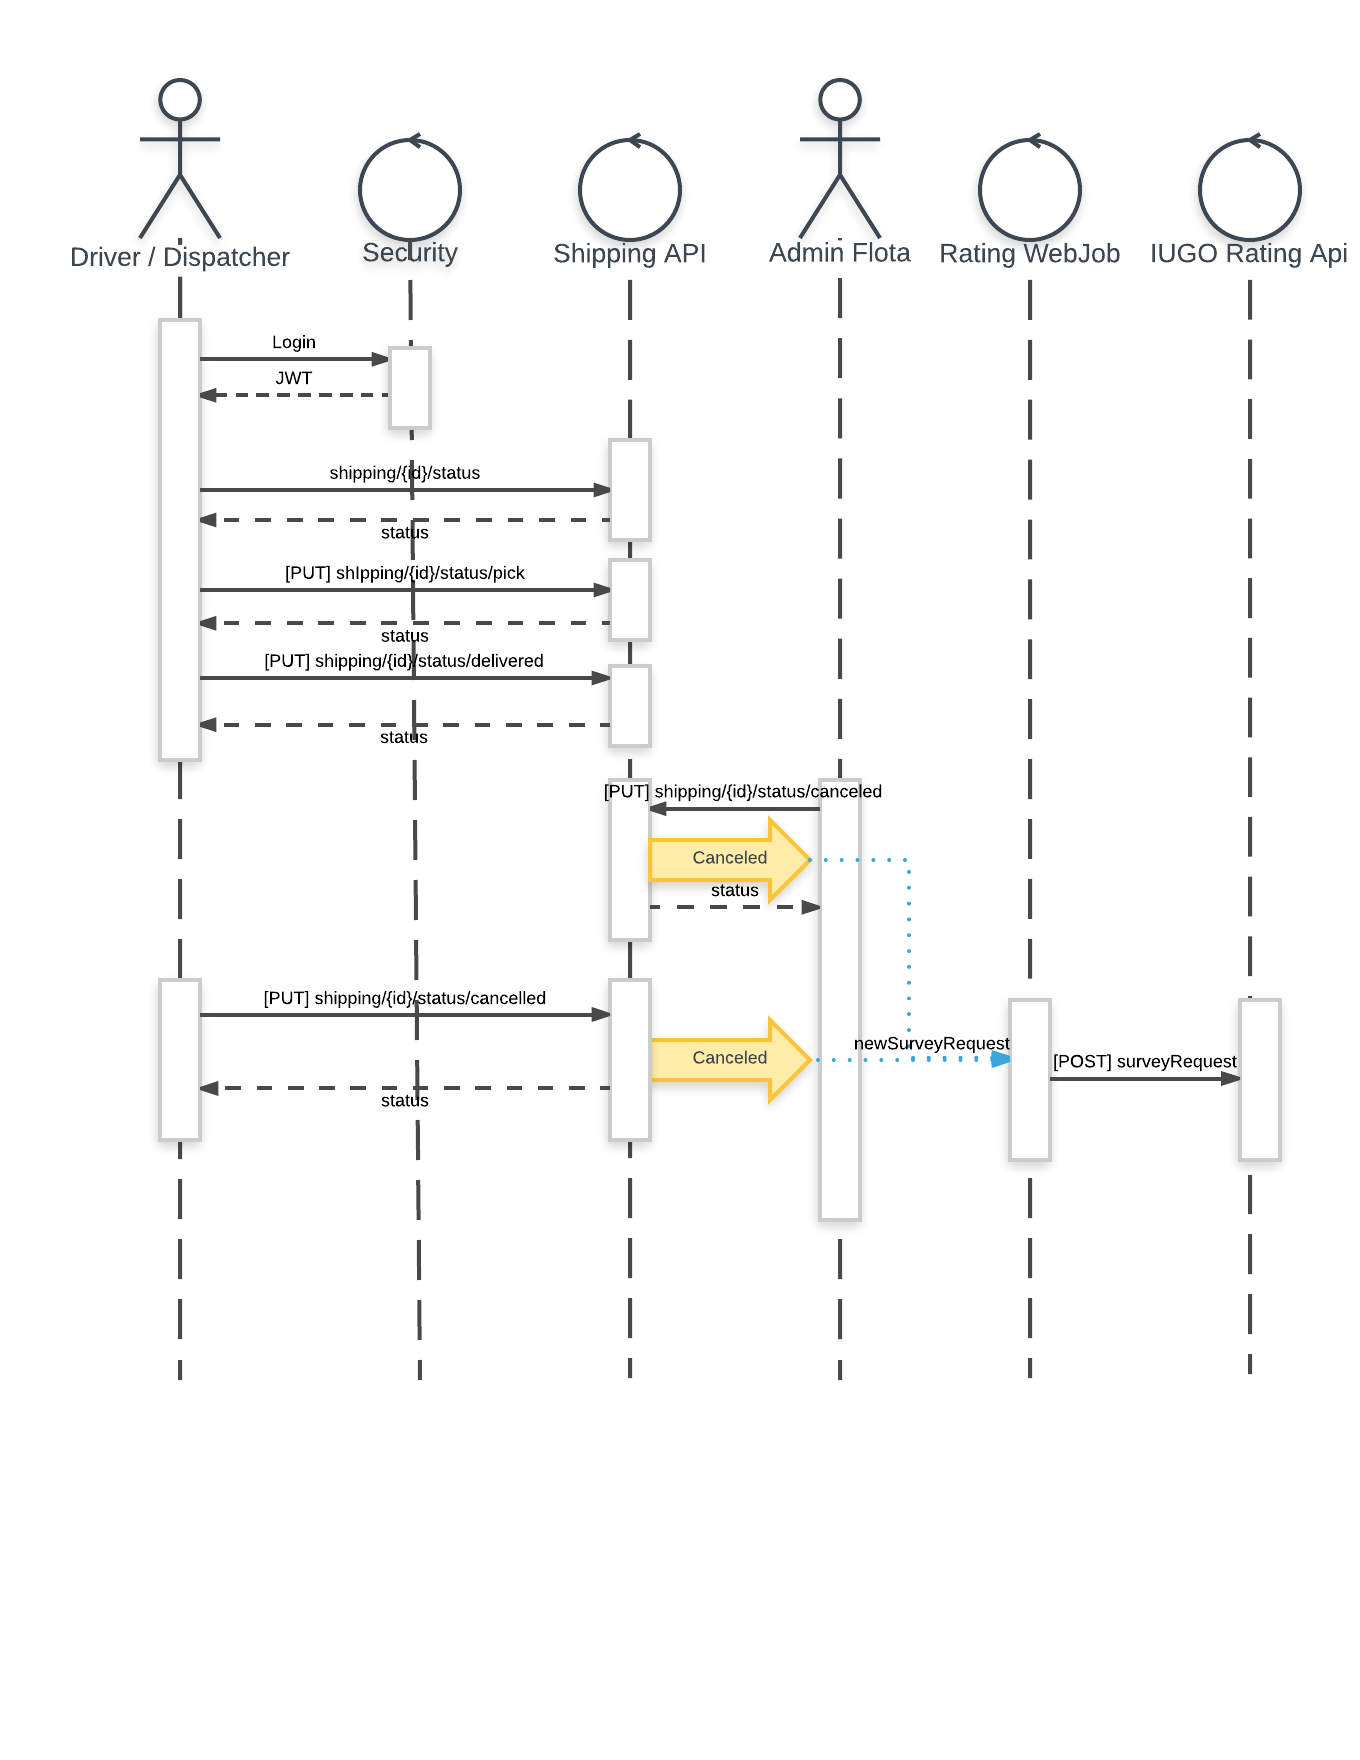
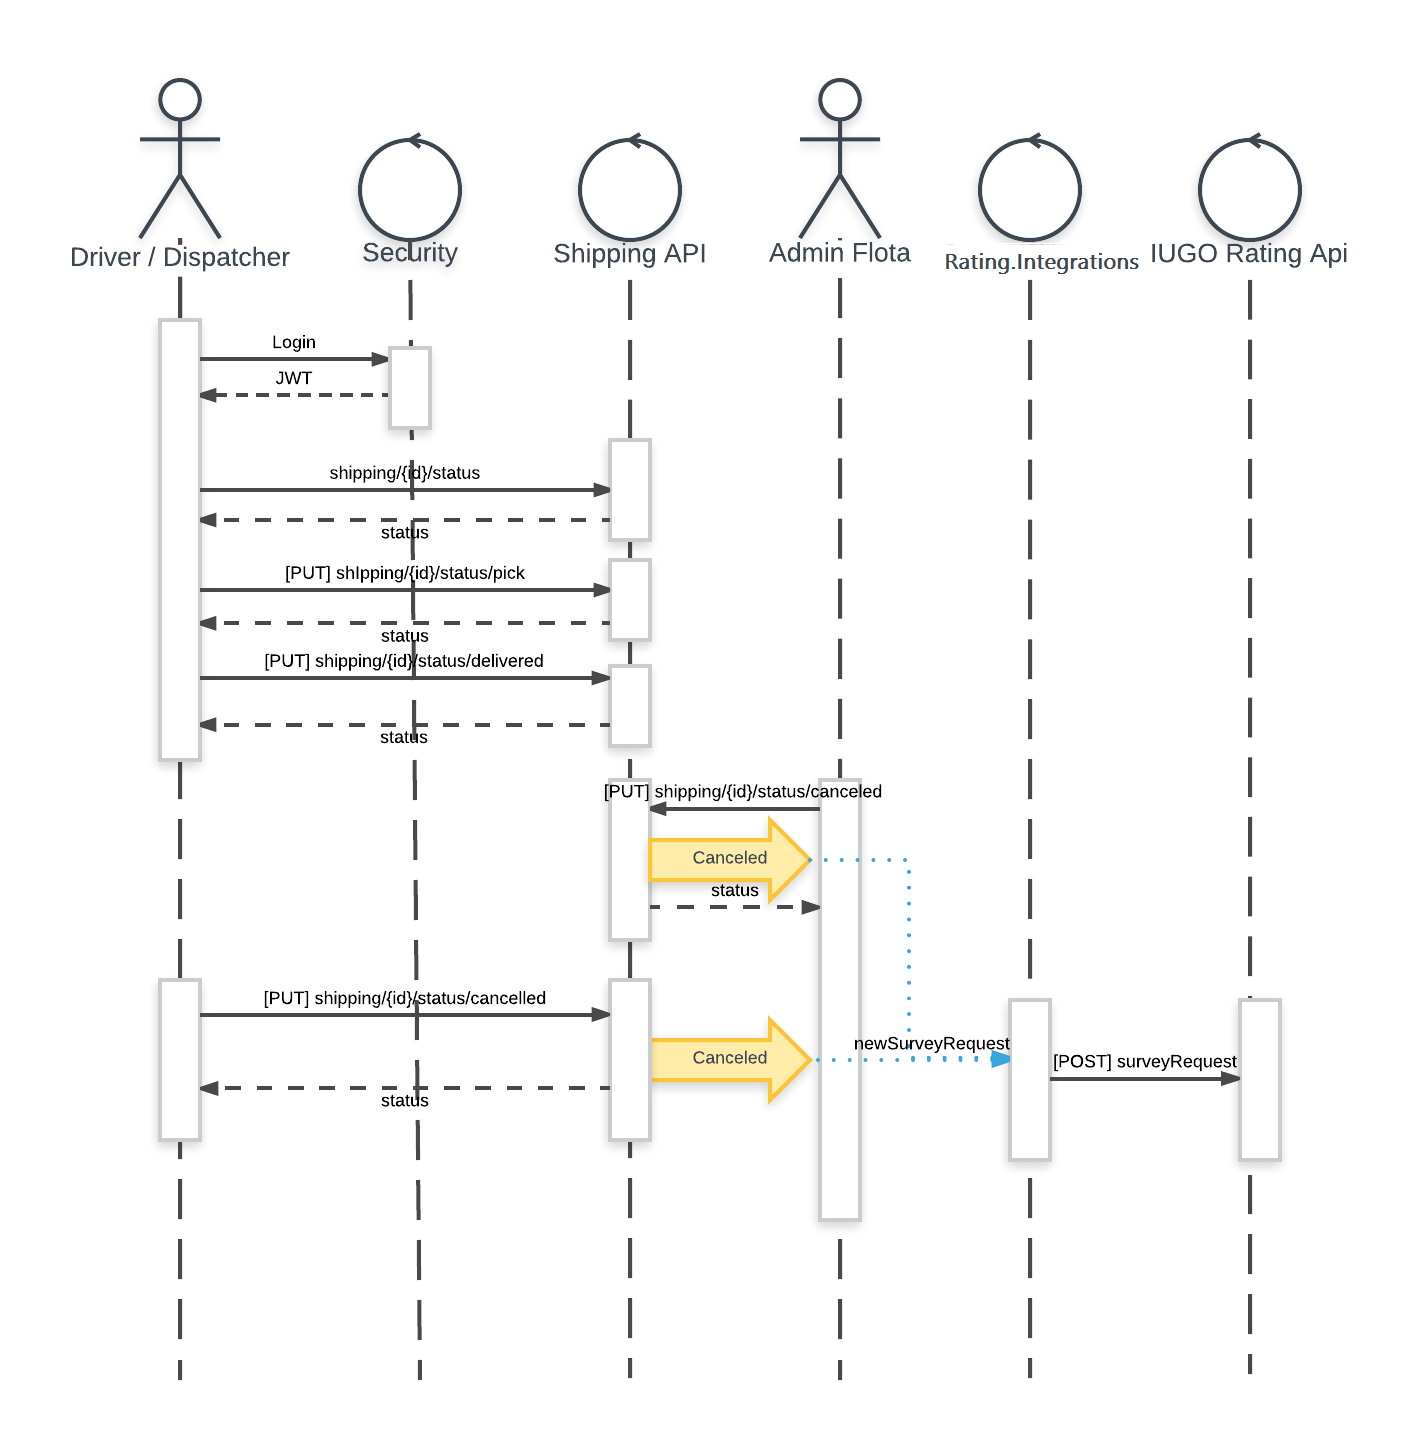
update shipping architecture

diff --git a/6. Arquitectura de software/2. Solicitudes de Servicio/README.md b/6. Arquitectura de software/2. Solicitudes de Servicio/README.md
@@ -30,10 +30,10 @@ A continuación se describen los flujos de la aplicación y la arquitectura a ni
 * El usuario ha ingresado tiene asignado un 'Paquete' o 'Servicio'
 
 #### Descripción:
-1. **Conductor** Está en la aplicación móvil y como se encuentra en *proceso de transporte de paquete* se le mostrarán algunos botones para cambiar los estados de la carga, el primero, que es antes de recoger la carga mostrará `RECOGIDA`.
+1. **Conductor** Está en la aplicación móvil y como se encuentra en *proceso de transporte de paquete* se le mostrarán algunos botones para cambiar los estados de la carga, el primero, que es antes de recoger la carga mostrará `RECOGIDA`. 
 2. **App Mobil** enviará una petición al Shipping API notificando el nuevo estado, en este caso sería `cargaRecogida`.
 3. Para todos los estados se seguirá el mismo proceso de los pasos 1 y 2.
-4. En caso de que el **Conductor** notifique que el estado de la carga es `Entregado` el *Shipping API* emitirá un evento `Package delivered` que será escuchado por el WebJob de Rating y generará las encuentras asociadas a este proceso para los actores involucrados.
+4. En caso de que el **Conductor** notifique que el estado de la carga es `Entregado` el *Shipping API* emitirá un evento `Package delivered` que será escuchado por el MicroServicio de Rating y generará las encuentras asociadas a este proceso para los actores involucrados.
 
 ________________________________
 
